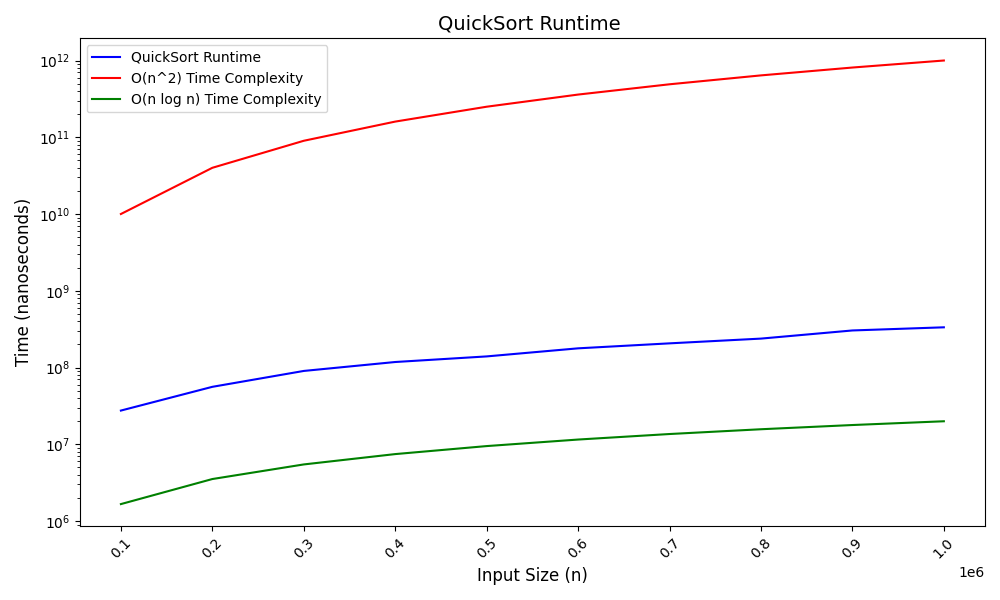
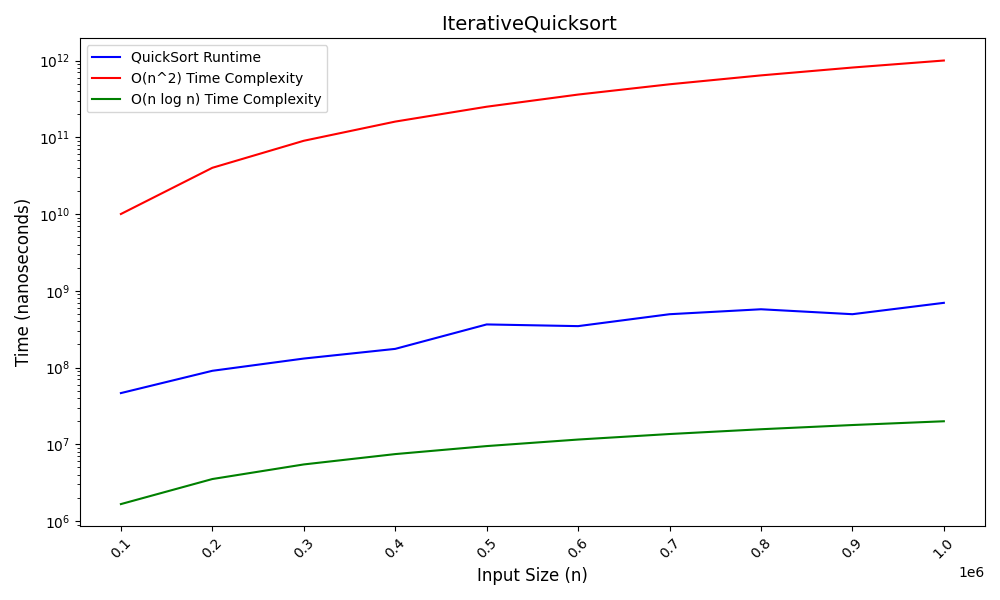
latest

Changed region(s): [[0.124, 0.54, 0.682, 0.69], [0.589, 0.51, 0.93, 0.57], [0.434, 0.03, 0.62, 0.06]]

diff --git a/IterativeQuickSort/script.py b/IterativeQuickSort/script.py
@@ -30,7 +30,7 @@ plt.plot(input_sizes, n_log_n_times, label="O(n log n) Time Complexity", color="
 # Labels and Title
 plt.xlabel("Input Size (n)", fontsize=12)
 plt.ylabel("Time (nanoseconds)", fontsize=12)
-plt.title("QuickSort Runtime ", fontsize=14)
+plt.title("IterativeQuicksort ", fontsize=14)
 plt.yscale("log")  # Use log scale for better visualization of large differences
 # plt.xscale("log")
 
